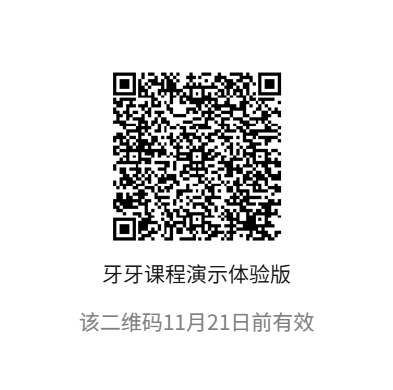
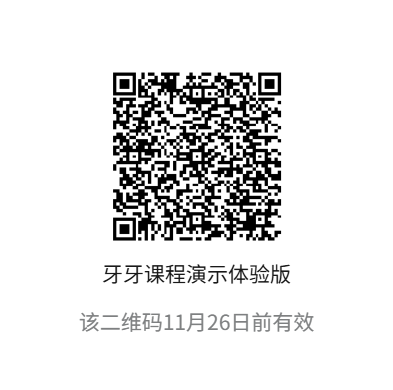
更新小程序体验码有效期至11月26日前

diff --git a/README.md b/README.md
@@ -22,7 +22,7 @@
 
 请用微信扫描下方体验码申请体验。
 
-**体验码更新于 2026 年 11 月 14 日，2026 年 11 月 21 日前有效（北京时间）。**
+**体验码更新于 2026 年 11 月 19 日，2026 年 11 月 26 日前有效（北京时间）。**
 
 ![牙牙课程演示体验版二维码](demo/miniprogram-trial.png)
 
